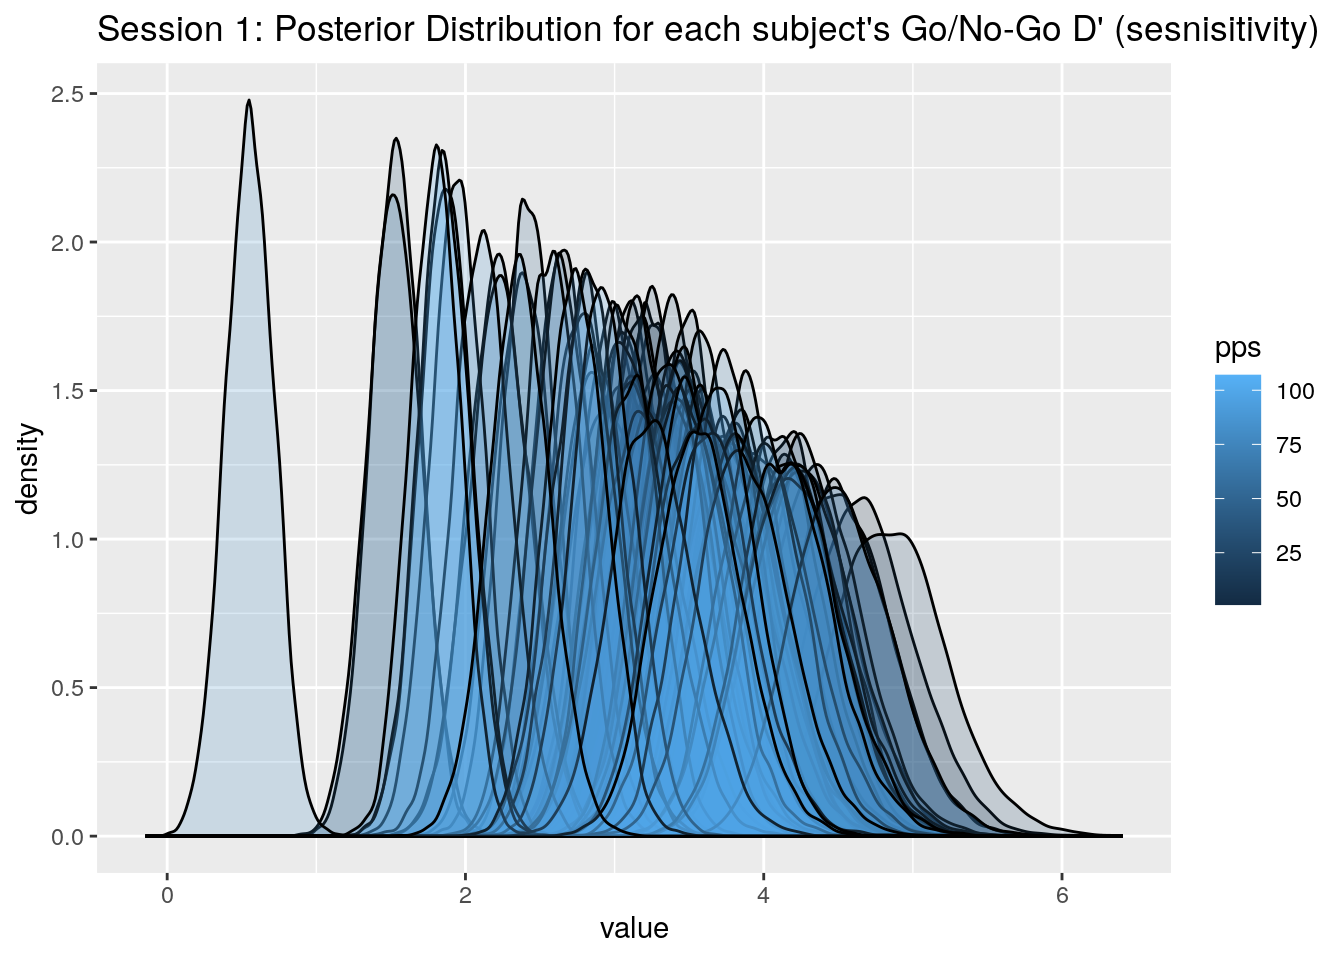
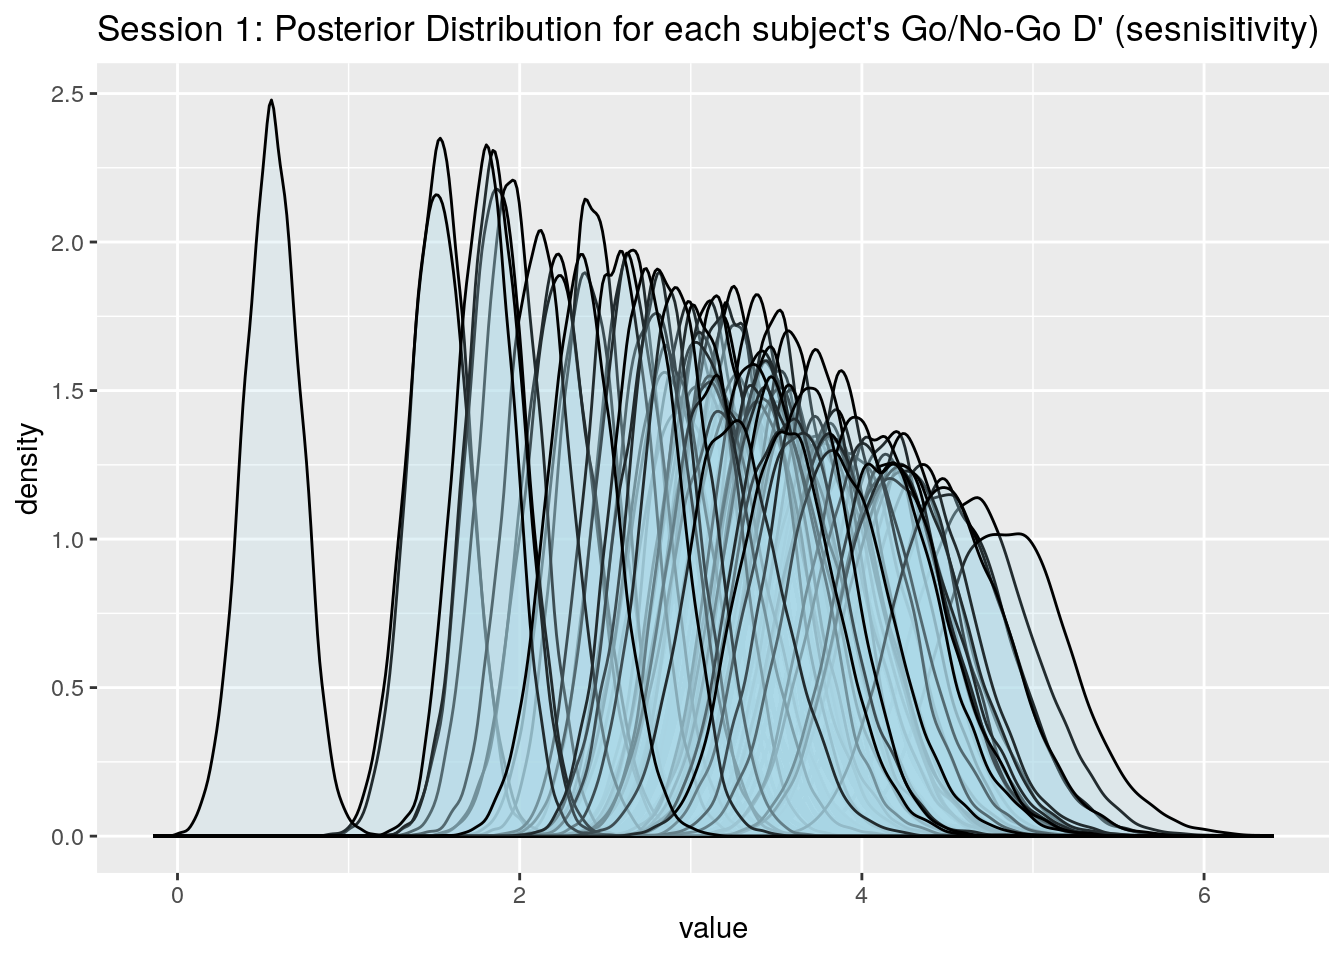
Built site for gh-pages

diff --git a/posts/2024-07-01-tutorial_rmp_gonogo/index.html b/posts/2024-07-01-tutorial_rmp_gonogo/index.html
@@ -224,10 +224,10 @@ window.Quarto = {
   <li><a href="#load-data-from-hedges-reliability-paradox-paper" id="toc-load-data-from-hedges-reliability-paradox-paper" class="nav-link" data-scroll-target="#load-data-from-hedges-reliability-paradox-paper">Load Data from Hedge’s “Reliability Paradox” paper</a></li>
   <li><a href="#gono-go-modelling" id="toc-gono-go-modelling" class="nav-link" data-scroll-target="#gono-go-modelling">Go/no-go Modelling</a></li>
   <li><a href="#summarise-data" id="toc-summarise-data" class="nav-link" data-scroll-target="#summarise-data">Summarise data</a></li>
+  </ul></li>
   <li><a href="#fit-bayesian-signal-detection-theory-models" id="toc-fit-bayesian-signal-detection-theory-models" class="nav-link" data-scroll-target="#fit-bayesian-signal-detection-theory-models">Fit Bayesian signal detection theory models</a>
   <ul class="collapse">
   <li><a href="#model-results" id="toc-model-results" class="nav-link" data-scroll-target="#model-results">Model results</a></li>
-  </ul></li>
   </ul></li>
   <li><a href="#calculate-reliability" id="toc-calculate-reliability" class="nav-link" data-scroll-target="#calculate-reliability">Calculate Reliability</a></li>
   <li><a href="#plot-different-reliability-posterior-distributions" id="toc-plot-different-reliability-posterior-distributions" class="nav-link" data-scroll-target="#plot-different-reliability-posterior-distributions">Plot different reliability posterior distributions</a></li>
@@ -794,7 +794,7 @@ d' = \Phi^{-1}(HR) - \Phi^{-1}(FAR)
 <p>We will contrast code condition so that <code>condition_contrast = -1/2</code> when “no-go”, and <code>condition_contrast = +1/2</code> for “go” trials.</p>
 <p>The random intercept captures individual’s propensity to generally respond “go” regardless of condition.</p>
 <p>The random slope captures how well individuals’ shift their probability of responding “go” between conditions.</p>
-<p>The beta coefficient for condition_contrast will correspond the change in the of responding “go” between conditions.</p>
+<p>The beta coefficient for condition_contrast corresponds (not exactly) to the change in the probability of responding “go” between conditions.</p>
 </section>
 <section id="summarise-data" class="level2">
 <h2 class="anchored" data-anchor-id="summarise-data">Summarise data</h2>
@@ -847,11 +847,12 @@ d' = \Phi^{-1}(HR) - \Phi^{-1}(FAR)
 <p>For example, if we wanted to estimate out the probability of a flipped bent coin landing on heads, we just need to know the number of heads and number of throws, not the value of each individual coin toss.</p>
 <p>One could model individual trials to include trial-level predictors, such as reaction time.</p>
 </section>
-<section id="fit-bayesian-signal-detection-theory-models" class="level2">
-<h2 class="anchored" data-anchor-id="fit-bayesian-signal-detection-theory-models">Fit Bayesian signal detection theory models</h2>
+</section>
+<section id="fit-bayesian-signal-detection-theory-models" class="level1">
+<h1>Fit Bayesian signal detection theory models</h1>
 <p>In the next code chunk, we fit our models to each session (time point) and we extract the posterior draws of each subject’s d’ value at each time point into two matrices called <code>subj_draws_time_1</code> and <code>subj_draws_time_2</code>.</p>
 <p>I will stick with brms’s default, vague priors on the model parameters.</p>
-<p>For calculating test-retest reliability, it makes sense to fit models at each time point independently. We do not want data from the second time point will be informing our estimates of <code>d'</code> at the first time point.</p>
+<p>For calculating test-retest reliability, it makes sense to fit models at each time point independently. We do not want data from the second time point informing our estimates of <code>d'</code> from the first time point.</p>
 <div class="cell">
 <div class="sourceCode cell-code" id="cb6"><pre class="sourceCode r code-with-copy"><code class="sourceCode r"><span id="cb6-1"><a href="#cb6-1" aria-hidden="true" tabindex="-1"></a><span class="co"># https://osf.io/cwzds/</span></span>
 <span id="cb6-2"><a href="#cb6-2" aria-hidden="true" tabindex="-1"></a></span>
@@ -921,8 +922,8 @@ d' = \Phi^{-1}(HR) - \Phi^{-1}(FAR)
 <span id="cb6-66"><a href="#cb6-66" aria-hidden="true" tabindex="-1"></a><span class="co"># Time / Session 2</span></span>
 <span id="cb6-67"><a href="#cb6-67" aria-hidden="true" tabindex="-1"></a>subj_est_time_2 <span class="ot">=</span> <span class="fu">apply</span>(subj_draws_time_2, <span class="dv">1</span>, mean)</span></code><button title="Copy to Clipboard" class="code-copy-button"><i class="bi"></i></button></pre></div>
 </div>
-<section id="model-results" class="level3">
-<h3 class="anchored" data-anchor-id="model-results">Model results</h3>
+<section id="model-results" class="level2">
+<h2 class="anchored" data-anchor-id="model-results">Model results</h2>
 <div class="cell">
 <div class="sourceCode cell-code" id="cb7"><pre class="sourceCode r code-with-copy"><code class="sourceCode r"><span id="cb7-1"><a href="#cb7-1" aria-hidden="true" tabindex="-1"></a>model_time_1</span></code><button title="Copy to Clipboard" class="code-copy-button"><i class="bi"></i></button></pre></div>
 <div class="cell-output cell-output-stdout">
@@ -986,8 +987,8 @@ scale reduction factor on split chains (at convergence, Rhat = 1).</code></pre>
 <p>Let’s look at the the matrices <code>subj_draws_time_1</code> and <code>subj_draws_time_2</code> of our posterior draws in detail.</p>
 <p>Below we show data from 4 posterior draws from the first 10 participants.</p>
 <p>For each session we have a matrix of 107 rows (one row for each subject) and 10,000 columns, where each row has 10,000 posterior draws of a subject’s true d’ value.</p>
-<p>Since random effects are generally centered (i.e., have a mean of zero), I have added the posterior distribution of the main effect of <code>condition_contrast</code> to the random slopes posteriors. This gives us posterior distributions that have the correct scaling for d’.</p>
-<p>If we just want point estimates of d’ for each participants, we could just take the mean value of each row of this matrix (e.g., <code>apply(subj_draws_time_1, 1, mean)</code>)</p>
+<p>Since random effects are generally centered (i.e., have a mean of zero), I have added the posterior distribution of the main effect of <code>condition_contrast</code> to the random slope posteriors. This gives us posterior distributions that have the correct scaling for d’.</p>
+<p>If we just want point estimates of d’ for each participant, we could take the mean value of each row of this matrix (e.g., <code>apply(subj_draws_time_1, 1, mean)</code>)</p>
 <div class="cell">
 <div class="sourceCode cell-code" id="cb11"><pre class="sourceCode r code-with-copy"><code class="sourceCode r"><span id="cb11-1"><a href="#cb11-1" aria-hidden="true" tabindex="-1"></a>subj_draws_time_1 <span class="sc">%&gt;%</span></span>
 <span id="cb11-2"><a href="#cb11-2" aria-hidden="true" tabindex="-1"></a>  <span class="fu">data.frame</span>() <span class="sc">%&gt;%</span></span>
@@ -1021,8 +1022,8 @@ r_pps[11,condition_contrast] 4.789330 4.277429 4.404580 4.513110</code></pre>
 <span id="cb17-2"><a href="#cb17-2" aria-hidden="true" tabindex="-1"></a>  <span class="fu">data.frame</span>() <span class="sc">%&gt;%</span></span>
 <span id="cb17-3"><a href="#cb17-3" aria-hidden="true" tabindex="-1"></a>  <span class="fu">rowid_to_column</span>(<span class="at">var =</span> <span class="st">"pps"</span>) <span class="sc">%&gt;%</span></span>
 <span id="cb17-4"><a href="#cb17-4" aria-hidden="true" tabindex="-1"></a>  <span class="fu">pivot_longer</span>(<span class="at">cols =</span> <span class="sc">!</span><span class="fu">matches</span>(<span class="st">"pps"</span>)) <span class="sc">%&gt;%</span></span>
-<span id="cb17-5"><a href="#cb17-5" aria-hidden="true" tabindex="-1"></a>  <span class="fu">ggplot</span>(<span class="fu">aes</span>(<span class="at">x =</span> value, <span class="at">group =</span> pps, <span class="at">fill =</span> pps)) <span class="sc">+</span></span>
-<span id="cb17-6"><a href="#cb17-6" aria-hidden="true" tabindex="-1"></a>  <span class="fu">geom_density</span>(<span class="at">alpha =</span> .<span class="dv">2</span>) <span class="sc">+</span></span>
+<span id="cb17-5"><a href="#cb17-5" aria-hidden="true" tabindex="-1"></a>  <span class="fu">ggplot</span>(<span class="fu">aes</span>(<span class="at">x =</span> value, <span class="at">group =</span> pps)) <span class="sc">+</span></span>
+<span id="cb17-6"><a href="#cb17-6" aria-hidden="true" tabindex="-1"></a>  <span class="fu">geom_density</span>(<span class="at">alpha =</span> .<span class="dv">2</span>, <span class="at">fill =</span> <span class="st">"light blue"</span>) <span class="sc">+</span></span>
 <span id="cb17-7"><a href="#cb17-7" aria-hidden="true" tabindex="-1"></a>  <span class="fu">labs</span>(<span class="at">title =</span> <span class="st">"Session 1: Posterior Distribution for each subject's Go/No-Go D' (sesnisitivity)"</span>)</span></code><button title="Copy to Clipboard" class="code-copy-button"><i class="bi"></i></button></pre></div>
 <div class="cell-output-display">
 <div>
@@ -1035,8 +1036,8 @@ r_pps[11,condition_contrast] 4.789330 4.277429 4.404580 4.513110</code></pre>
 <span id="cb18-2"><a href="#cb18-2" aria-hidden="true" tabindex="-1"></a>  <span class="fu">data.frame</span>() <span class="sc">%&gt;%</span></span>
 <span id="cb18-3"><a href="#cb18-3" aria-hidden="true" tabindex="-1"></a>  <span class="fu">rowid_to_column</span>(<span class="at">var =</span> <span class="st">"pps"</span>) <span class="sc">%&gt;%</span></span>
 <span id="cb18-4"><a href="#cb18-4" aria-hidden="true" tabindex="-1"></a>  <span class="fu">pivot_longer</span>(<span class="at">cols =</span> <span class="sc">!</span><span class="fu">matches</span>(<span class="st">"pps"</span>)) <span class="sc">%&gt;%</span></span>
-<span id="cb18-5"><a href="#cb18-5" aria-hidden="true" tabindex="-1"></a>  <span class="fu">ggplot</span>(<span class="fu">aes</span>(<span class="at">x =</span> value, <span class="at">group =</span> pps, <span class="at">fill =</span> pps)) <span class="sc">+</span></span>
-<span id="cb18-6"><a href="#cb18-6" aria-hidden="true" tabindex="-1"></a>  <span class="fu">geom_density</span>(<span class="at">alpha =</span> .<span class="dv">2</span>) <span class="sc">+</span></span>
+<span id="cb18-5"><a href="#cb18-5" aria-hidden="true" tabindex="-1"></a>  <span class="fu">ggplot</span>(<span class="fu">aes</span>(<span class="at">x =</span> value, <span class="at">group =</span> pps)) <span class="sc">+</span></span>
+<span id="cb18-6"><a href="#cb18-6" aria-hidden="true" tabindex="-1"></a>  <span class="fu">geom_density</span>(<span class="at">alpha =</span> .<span class="dv">2</span>, <span class="at">fill =</span> <span class="st">"light blue"</span>) <span class="sc">+</span></span>
 <span id="cb18-7"><a href="#cb18-7" aria-hidden="true" tabindex="-1"></a>  <span class="fu">labs</span>(<span class="at">title =</span> <span class="st">"Session 2: Posterior Distribution for each subject's Go/No-Go D' (sesnisitivity)"</span>)</span></code><button title="Copy to Clipboard" class="code-copy-button"><i class="bi"></i></button></pre></div>
 <div class="cell-output-display">
 <div>
@@ -1051,9 +1052,8 @@ r_pps[11,condition_contrast] 4.789330 4.277429 4.404580 4.513110</code></pre>
 <span id="cb19-4"><a href="#cb19-4" aria-hidden="true" tabindex="-1"></a><span class="co">#   geom_density(alpha = .2) +</span></span>
 <span id="cb19-5"><a href="#cb19-5" aria-hidden="true" tabindex="-1"></a><span class="co">#   facet_wrap(~pps)</span></span></code><button title="Copy to Clipboard" class="code-copy-button"><i class="bi"></i></button></pre></div>
 </div>
-<p>Just from eye-balling the posteriors, we can see that there is a lot of variability between participants, and our estimates look quite precise.</p>
+<p>From eye-balling the posteriors, it is evidence that there is a lot of variability between participants, and our estimates look quite precise.</p>
 <p>As expected, most of the mass of each density lies above 0. If d’ is less than zero it would indicate that a participant is more likely to press the space bar (i.e., “go”) for no-go conditions than go conditions, which would be odd.</p>
-</section>
 </section>
 </section>
 <section id="calculate-reliability" class="level1">
@@ -1063,7 +1063,7 @@ r_pps[11,condition_contrast] 4.789330 4.277429 4.404580 4.513110</code></pre>
 <div class="cell">
 <div class="sourceCode cell-code" id="cb20"><pre class="sourceCode r code-with-copy"><code class="sourceCode r"><span id="cb20-1"><a href="#cb20-1" aria-hidden="true" tabindex="-1"></a>devtools<span class="sc">::</span><span class="fu">install_github</span>(<span class="st">"giac01/gbtoolbox"</span>)</span></code><button title="Copy to Clipboard" class="code-copy-button"><i class="bi"></i></button></pre></div>
 </div>
-<p>Calculate relative measurement precision at each time point:</p>
+<p>Calculate internal consistency at each time point:</p>
 <div class="cell">
 <div class="sourceCode cell-code" id="cb21"><pre class="sourceCode r code-with-copy"><code class="sourceCode r"><span id="cb21-1"><a href="#cb21-1" aria-hidden="true" tabindex="-1"></a>internalconsistency_time1 <span class="ot">=</span> gbtoolbox<span class="sc">::</span><span class="fu">reliability</span>(subj_draws_time_1)</span></code><button title="Copy to Clipboard" class="code-copy-button"><i class="bi"></i></button></pre></div>
 <div class="cell-output cell-output-stdout">
@@ -1087,7 +1087,7 @@ r_pps[11,condition_contrast] 4.789330 4.277429 4.404580 4.513110</code></pre>
 </div>
 <div class="sourceCode cell-code" id="cb29"><pre class="sourceCode r code-with-copy"><code class="sourceCode r"><span id="cb29-1"><a href="#cb29-1" aria-hidden="true" tabindex="-1"></a>predicted_test_retest <span class="ot">=</span> <span class="fu">sqrt</span>(internalconsistency_time1<span class="sc">$</span>reliability_posterior<span class="sc">*</span>internalconsistency_time2<span class="sc">$</span>reliability_posterior)</span></code><button title="Copy to Clipboard" class="code-copy-button"><i class="bi"></i></button></pre></div>
 </div>
-<p>Relative measurement precision indicates that reliability at the first time point was 89% (95% Credible Interval = 86%-92%), and at the second time point reliability was 93% (95% CI[91%, 95%]).</p>
+<p>The analyses indicate that reliability at the first time point was 89% (95% Credible Interval = 86%-92%), and at the second time point reliability was 93% (95% CI[91%, 95%]).</p>
 <p>The test-retest reliability is a little lower than these estimates (r = 0.73), as we might expect:</p>
 <div class="cell">
 <div class="sourceCode cell-code" id="cb30"><pre class="sourceCode r code-with-copy"><code class="sourceCode r"><span id="cb30-1"><a href="#cb30-1" aria-hidden="true" tabindex="-1"></a><span class="fu">cor.test</span>(subj_est_time_1, subj_est_time_2)</span></code><button title="Copy to Clipboard" class="code-copy-button"><i class="bi"></i></button></pre></div>
